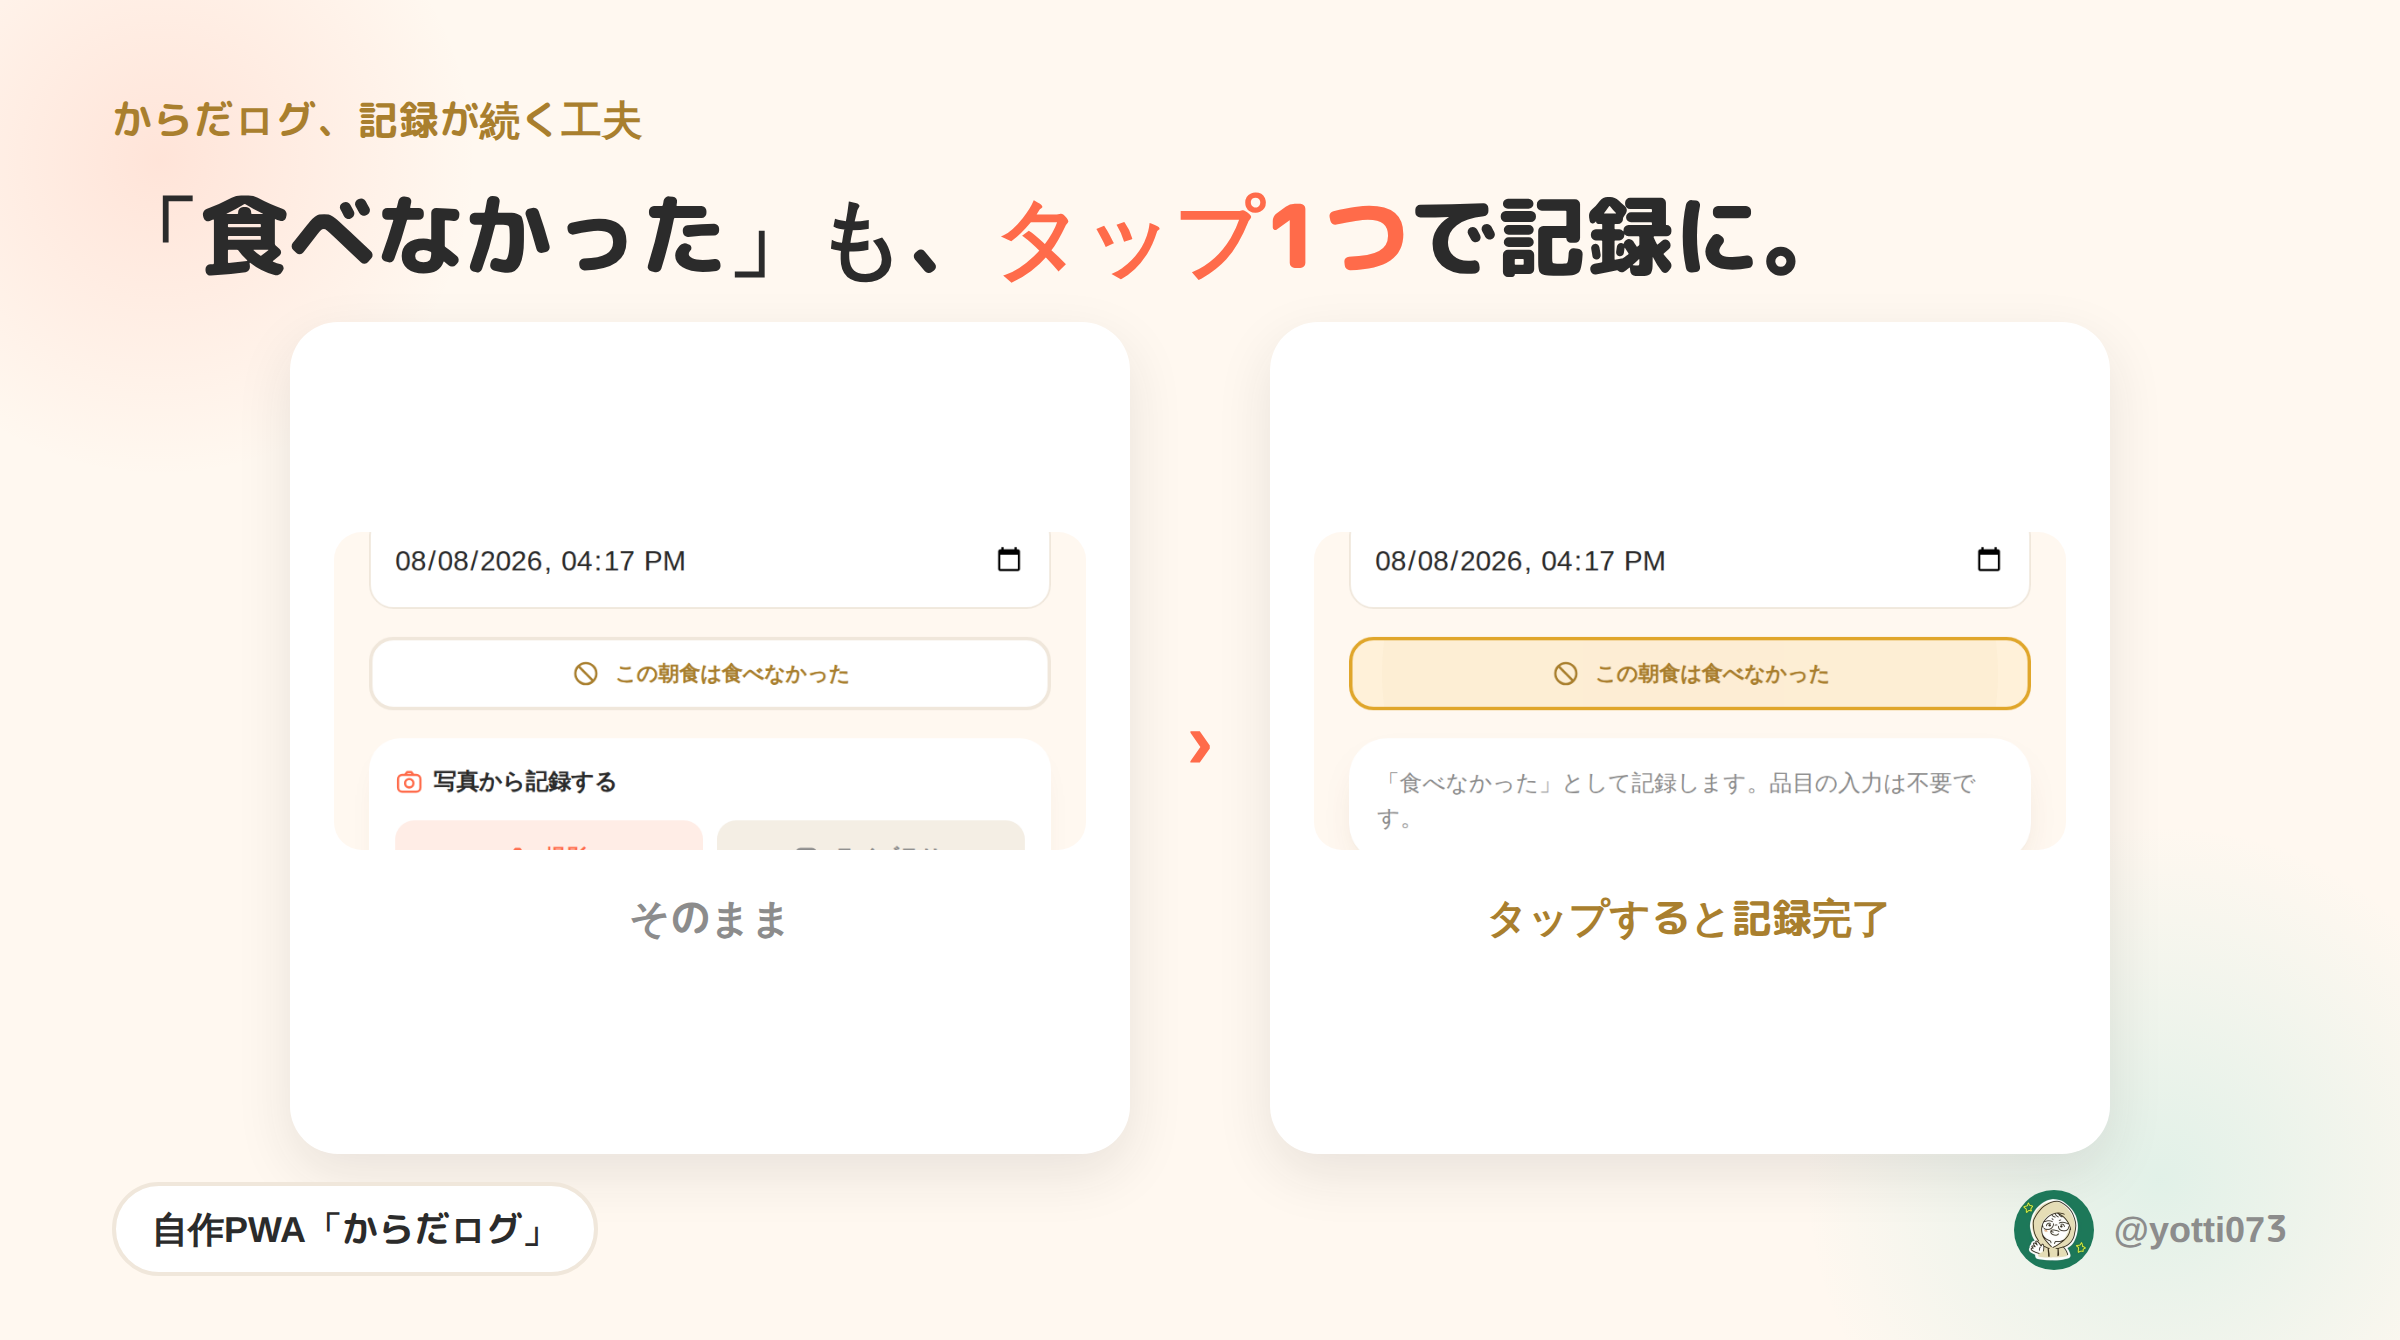
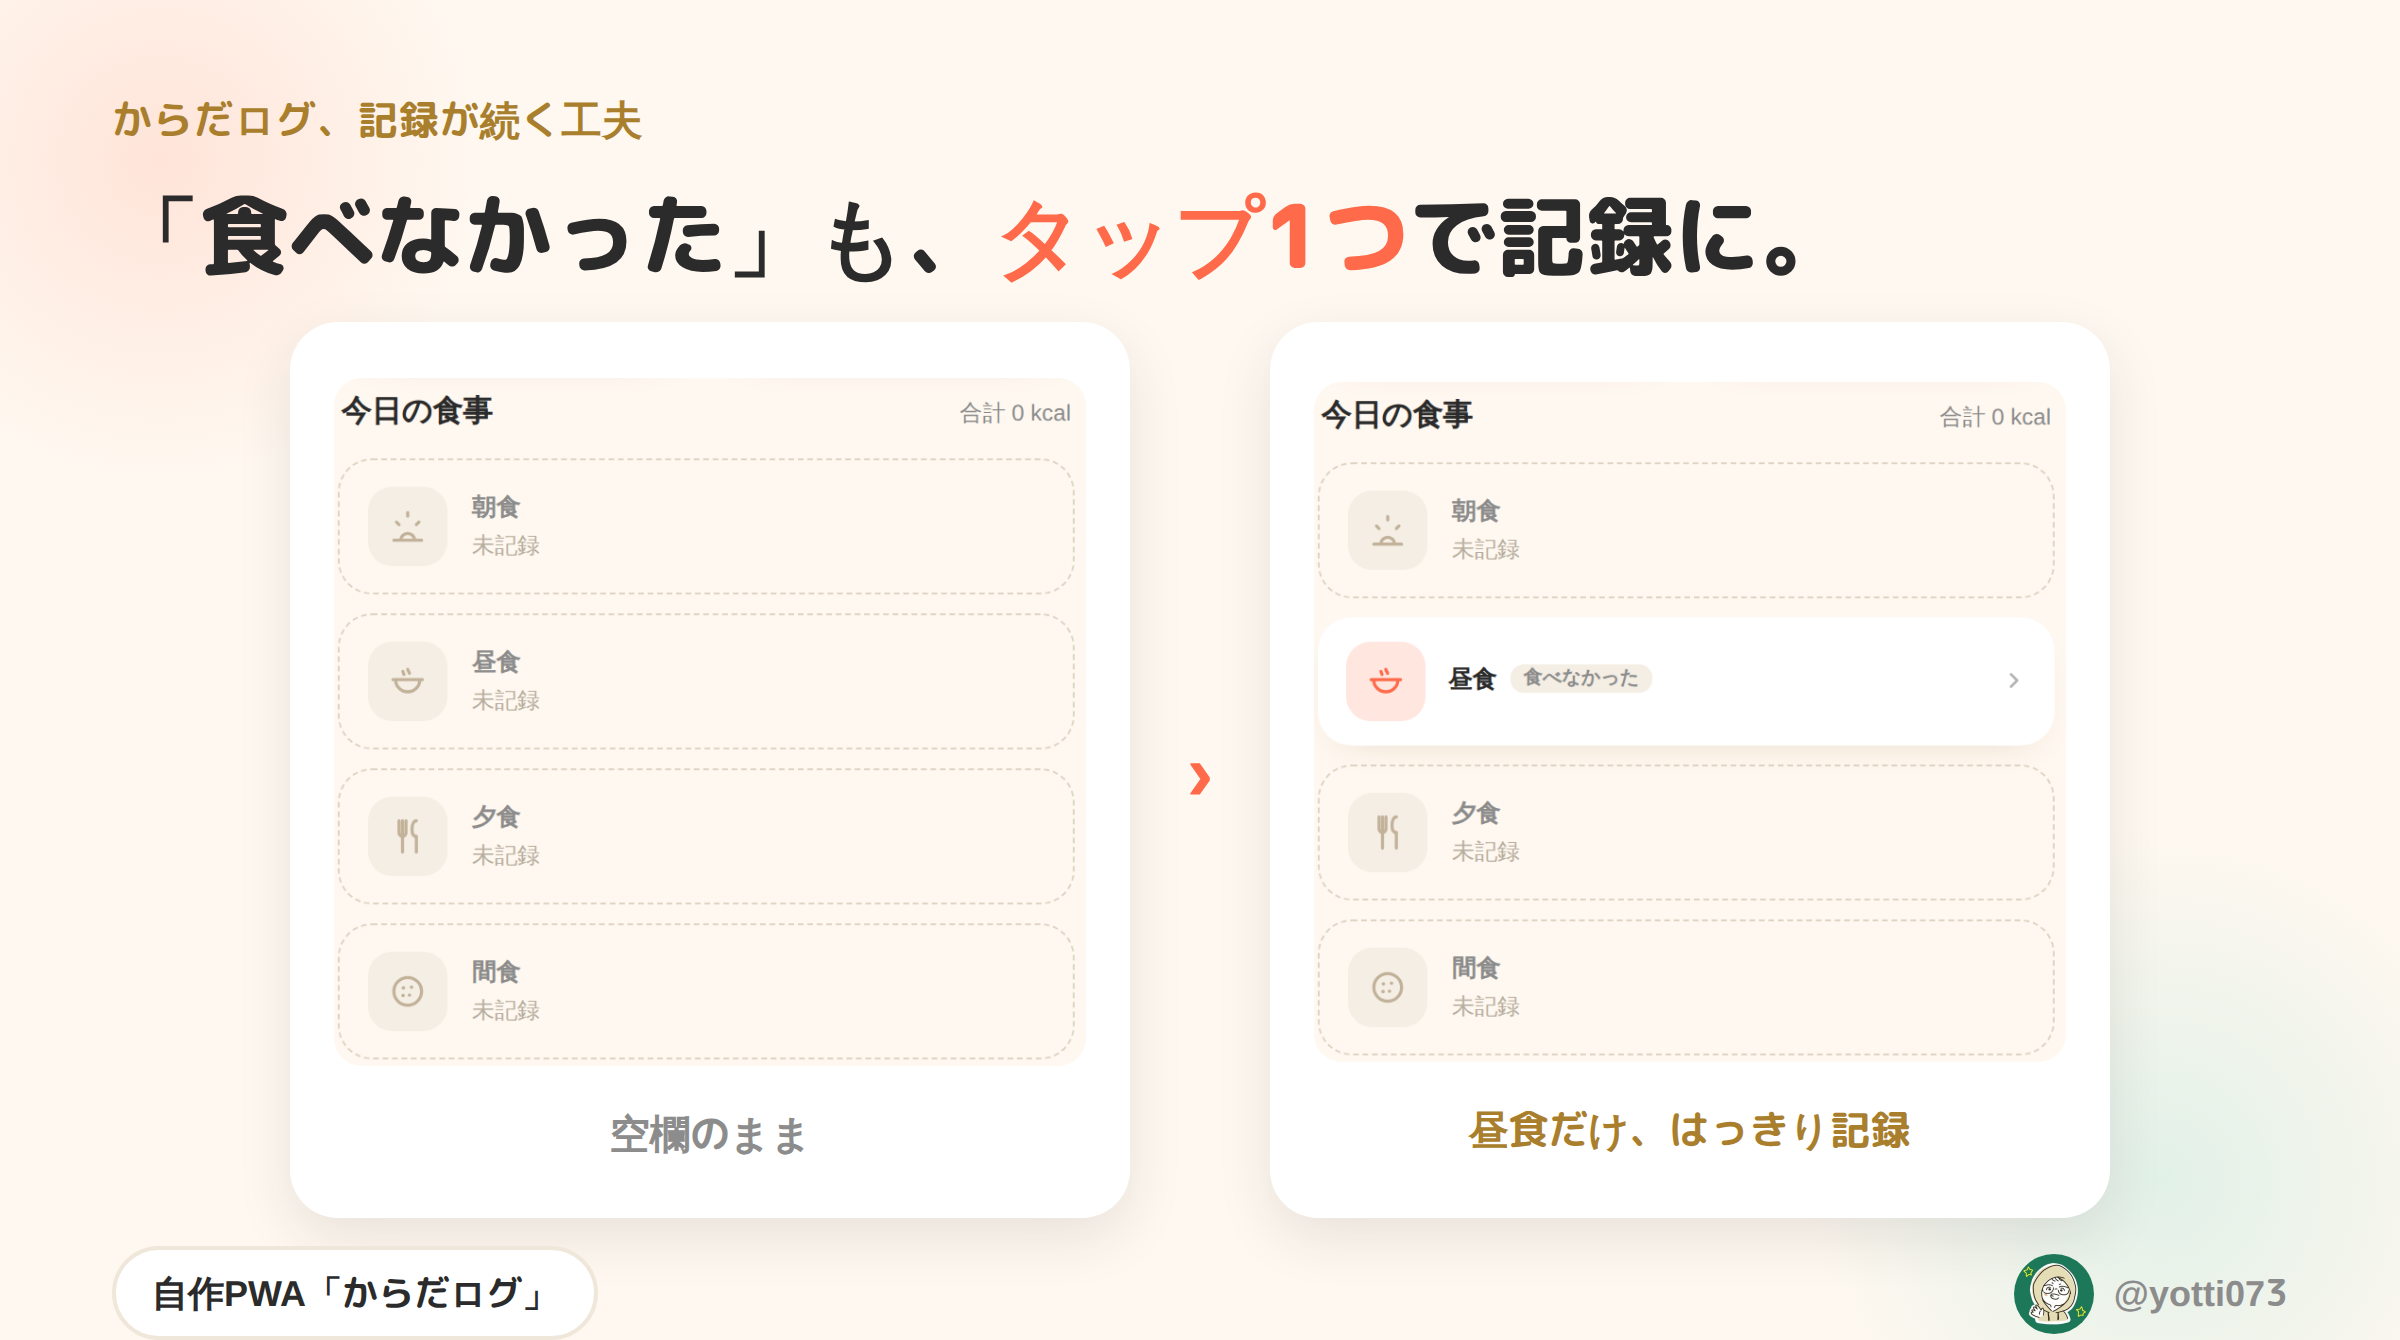
A-06画像を撮り直す: トグルのOFF/ONではなくホーム画面の結果を見せる
本人指摘: 「左がビフォーのつもりならボタンが最初からあるのはおかしい」。
もっともな指摘で、A-06の主張は「トグルの見た目」ではなく「空欄のまま
(記録忘れと区別つかない)→トグルで明示的に記録」という結果の違い
だった。ホーム画面「今日の食事」を、4区分すべて未記録の状態と、
昼食だけ食べなかったバッジが付いた状態で撮り直し、ボタン自体は
画面に映らない構成に変更した。

Claude-Session: https://claude.ai/code/session_01T3yfZ6uiHaK6AwExpzzThc

diff --git a/articles/README.md b/articles/README.md
@@ -244,7 +244,8 @@ Zennの技術記事は、バズ(はてブ・トレンド)の一発より、**具
   **公式予約バッチが不要になったため、`articles/x/X予約投稿_貼り付け用.md`と`scripts/x/generate_paste_list.mjs`を削除した。** 前者はXの予約UIに貼り付けるための生成物、後者はその生成スクリプトで、いずれも「まとめて事前に予約する」運用専用だったため役目を終えた。ストック本体+投稿カレンダーの表がそのまま「次に何を出すか」の参照先になる。
   **`使用日`の記録タイミングも見直した。** 旧ルールは「予約済みのぶんは記録の実益が薄いので週次でまとめる」だったが、事前キューが無くなった以上この前提が崩れるため、**メタ欄は投稿当日に更新**する形に修正(コミット・PR自体は引き続き週次でまとめてよい、両者は別の話のため)。
 - 2026-08-09: **A-06の実データを最新化した(手動投稿の利点を実践)。** 本人の指示による — 「当日投稿なら最新情報を使える」というまさに手動化の狙いを、初回から適用した。Google Drive経由で同期用スプレッドシート(「からだログ」)の食事記録シートを直接読み、2026-05-18〜08-08(83日間、2026-08-08時点で取得できた最新日)の記録日数を数え直した結果、**83日中82日**(欠食は7/20の1日のみ、元の77日中76日から同じ欠食日を引き継いだまま6日ぶん更新)。文字数は265/280で変更前と同じ(桁数が変わらなかったため)。**この日数の出し方**: 食事記録シートの「日付」列から実データの日付集合を作り、期間内で記録が1件も無い日を数える(「食べなかった」トグルの0kcalレコードも1件として数える。これがA-06本文の主張そのもの)。今後、他のA系投稿(A-01・A-02など)を仕上げる日が来たら、同じ手順でその時点の最新値に置き換える。
-- 2026-08-09: **A-06専用の画像(`X画像_食べなかったトグル.png`)を作成し、流用していた`X画像_アプリ紹介.png`から差し替えた。** 本人指摘: 汎用の2画面紹介では「トグル1つで記録できる」というA-06の主張と絵が結びついていなかった。zenn03の教訓(画像の見出しはフックと同じ主張にする)に沿い、**実際のUI(実装は`src/pages/meal/MealRecordPage.tsx`のIssue #143トグル)をOFF→ON両方スクリーンショットして使った**——これまでの画像はすべてHTML/CSSで組んだイラスト調の図解で、実アプリ画面のスクリーンショットを使ったのは初めて。
-  **手順**: `npm run dev`でローカル起動→Playwright(`chromium.launch({ executablePath: '/opt/pw-browsers/chromium' })`)で`/record/meal?type=breakfast`を開き、トグルをクリック前後でスクリーンショット。最初は要素を最小限にトリミングした画像(ボタンだけ)を使ったところ、ボタンが横長すぎてパネル内の上下が間延びした(README既知のパターン)。**日付欄+確認カードまで含めた「画面らしい」範囲に切り出し直して解消**——余白が空いたら情報を足すのではなく要素を大きくする、という既存の教訓どおり、今回は「見せる範囲を広げる」ことで埋めた。
-  見出しは「『食べなかった』も、タップ1つで記録に。」とし、A-06本文の核(トグル1つで記録できる)と揃えた。フォント・配色・署名は既定の手順どおり(M PLUS Rounded 1cのサブセットをbase64埋め込み、`document.fonts.size`が3であることを確認)。作業後、開発サーバーは停止した。
+- 2026-08-09: **A-06専用の画像(`X画像_食べなかったトグル.png`)を作成し、流用していた`X画像_アプリ紹介.png`から差し替えた。** 本人指摘: 汎用の2画面紹介では「トグル1つで記録できる」というA-06の主張と絵が結びついていなかった。zenn03の教訓(画像の見出しはフックと同じ主張にする)に沿い、実際のUI(実装は`src/pages/meal/MealRecordPage.tsx`のIssue #143トグル)をスクリーンショットして使う方針にした——これまでの画像はすべてHTML/CSSで組んだイラスト調の図解で、実アプリ画面のスクリーンショットを使ったのは初めて。
+  **初版(トグルのOFF→ON)は本人指摘で作り直した。** トグルのボタン自体をOFF/ONで並べたところ、「左が『ビフォー』のつもりなら、ボタンが最初からあるのはおかしい」との指摘を受けた。もっともな指摘で、A-06本文の主張は「トグルの見た目」ではなく「**空欄のまま(記録忘れと区別つかない)→トグルで明示的に記録**」なので、トグルという操作対象そのものではなく、その操作が生む**結果の違い**を見せるべきだった。ホーム画面の「今日の食事」リストに撮り直し: 4区分すべて`未記録`(左)/ 昼食だけ`食べなかった`バッジ付きに変わり他3区分は据え置き(右)。ボタンは画面に映らない。
+  **手順**: `npm run dev`でローカル起動→Playwright(`chromium.launch({ executablePath: '/opt/pw-browsers/chromium' })`)でホーム画面を撮影(before)→`/record/meal?type=lunch`でトグルを操作・保存→ホーム画面を再度撮影(after)。dev環境限定のノイズ(`未同期`バッジ、シート同期未設定のため常に出る)は`visibility:hidden`で画面上だけ隠して撮った。最初はトグルのボタン単体を切り出していたため横長すぎてパネル内の上下が間延びしたが(README既知のパターン)、上記の撮り直しでリスト全体を見せる構成に変えたことで縦の情報量も自然に確保できた——「見せる範囲を広げて埋める」の実例がここでも成立した。
+  見出しは「『食べなかった』も、タップ1つで記録に。」のまま(操作の主張自体は変わっていないため)、パネルの下ラベルを「空欄のまま」/「昼食だけ、はっきり記録」に変更。フォント・配色・署名は既定の手順どおり(M PLUS Rounded 1cのサブセットをbase64埋め込み、`document.fonts.size`が3であることを確認)。作業後、開発サーバーは停止した。
 - 2026-08-06: **note目次案#3(AIコーチ移行)をnoteに貼れる形にした。** 下書きのMarkdownをnoteのエディタに貼ると記号が文字として残るため、書式付きでコピーできる `note05_貼り付け用.html` を追加し、作り方を上記「noteエディタへの貼り付け」節に一般化して残した(以降の記事も同じ形で用意する)。あわせて、下書き本文の末尾に**リンク節(アプリ・GitHub・前回の週次レポート・Zenn記事)を追加した** — 週次レポートの定型フォーマット5では「毎回必ず入れる」と決めているのにストック記事側に導線が無く、マネタイズ検討メモ6章も「記事からリポジトリへの導線が効いていない(スター0)」を指摘していたため。タイトル・サムネイル・ハッシュタグ・TODOの確定はPR #173(未マージ)側にあり、本作業はそれと重ならない範囲(本文末尾・新規ファイル・新規節)に限定してある

diff --git a/articles/x/X投稿ストック.md b/articles/x/X投稿ストック.md
@@ -228,7 +228,7 @@ echo "本文" | node scripts/x/check_post_length.mjs -   # 1本だけ測る
 
 ### A-06 「食べなかった」を記録できるようにした
 
-`実データ` / 画像: `X画像_食べなかったトグル.png`(実画面のOFF→ONスクリーンショット、専用に作成) / 使用日: 2026-08-09(自己リプ2件を追加、公式予約はスレッドを組めないため手動投稿。数字は当日8/8時点のスプレッドシートで最新化)
+`実データ` / 画像: `X画像_食べなかったトグル.png`(ホーム画面「今日の食事」の実データ、4区分未記録→昼食だけ食べなかったバッジ、専用に作成) / 使用日: 2026-08-09(自己リプ2件を追加、公式予約はスレッドを組めないため手動投稿。数字は当日8/8時点のスプレッドシートで最新化)
 
 ```
 83日のうち、食事を記録できた日は82日でした。
